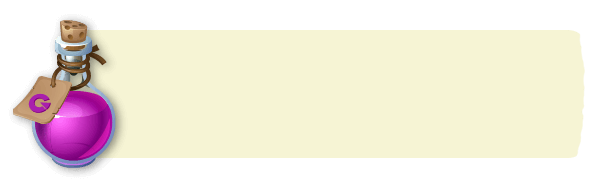
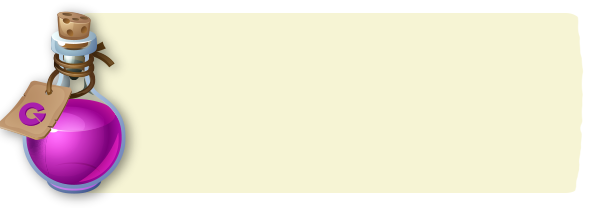
Copy added

diff --git a/index.html b/index.html
@@ -76,7 +76,7 @@
                 <img class="pinata-logo" src="assets/images/banner/spooky-logo.png" alt="">
             </div>     
             <div id="subtitle">
-                <h3><span class="orange">Log in daily for</span><br><span>spooky surprises</span><h3>
+                <h3><span class="orange">ZOMBIE ALERT: HIGH</span><br><span>REWARD ALERT: HIGHER</span><h3>
             </div>
             <!-- <div id="description">
                 <p class="desktop-18">Welcome to Guts Piñata Party, where the fun never stops!<br> Rules are simple: Beat, claim, repeat! </p>
@@ -124,66 +124,71 @@
             <div class="steps-container">
                 <div id="october-26-box" class="step-single-container-01 steps-odd">
                     <h3 class="date-title">OCTOBER 26</h3>
-                    <h3>Weekly Surprises</h3>
+                    <h3>Spooky Leaderboard</h3>
                     <ul>
-                        <li>Opt in and wager €100 from Monday to Thursday</li>
-                        <li>Surprises are paid out on Sunday</li>
+                        <li>Play Play'n GO slots to climb the leaderboard</li>
+                        <li>Finish in top 25 to win cash or Free Spins</li>
+                        <li>Reach the top to win €1,000 in real cash</li>
                     </ul>       
                 </div>
                 <div id="october-27-box" class="step-single-container-02 steps-even">
-                    <h3 class="date-title">OCTOBER 27</h3>
-                    <h3>Monthly Bonuses</h3>
+                    <h3 class="date-title">OCTOBER 27 - NOVEMBER 5</h3>
+                    <h3>Daring Double speed</h3>
                     <ul>
-                        <li>Collect at least 3 Weekly Piñata Rewards</li>
-                        <li>Start the next month with a Reload Bonus</li>
+                        <li>Play selected Halloween slots</li>
+                        <li>Level up in half the time</li>
                     </ul>       
                 </div>
                 <div id="october-28-box" class="step-single-container-03 steps-odd">
                     <h3 class="date-title">OCTOBER 28</h3>
-                    <h3>Weekly Surprises</h3>
+                    <h3>Scary Spinsanity</h3>
                     <ul>
-                        <li><a class="box-link" href="https://www.guts.com/en" target="_blank">Opt in</a> and wager €100 from Monday to Thursday</li>
-                        <li>Surprises are paid out on Sunday</li>
+                        <li>Make a deposit of €XX or more</li>
+                        <li>Get XX Free Spins (worth €XX each)</li>
+                        <li>No wagering requirements</li>
                     </ul>       
                 </div>
                 <div id="october-29-box" class="step-single-container-04 steps-even">
                     <h3 class="date-title">OCTOBER 29</h3>
-                    <h3>Monthly Bonuses</h3>
+                    <h3>Scary Spinsanity</h3>
                     <ul>
-                        <li>Collect at least 3 Weekly Piñata Rewards</li>
-                        <li>Start the next month with a Reload Bonus</li>
+                        <li>Make a deposit of €XX or more</li>
+                        <li>Get XX Free Spins (worth €XX each)</li>
+                        <li>No wagering requirements</li>
                     </ul>       
                 </div>
                 <div id="october-30-box" class="step-single-container-05 steps-odd">
                     <h3 class="date-title">OCTOBER 30</h3>
-                    <h3>Weekly Surprises</h3>
+                    <h3>Daring Double speed</h3>
                     <ul>
-                        <li>Opt in and wager €100 from Monday to Thursday</li>
-                        <li>Surprises are paid out on Sunday</li>
+                        <li>Play selected Halloween slots</li>
+                        <li>Level up in half the time</li>
                     </ul>       
                 </div>
                 <div id="october-31-box" class="step-single-container-06 steps-even">
                     <h3 class="date-title">OCTOBER 31</h3>
-                    <h3>Monthly Bonuses</h3>
+                    <h3>Ghostly Game of Guts</h3>
                     <ul>
-                        <li>Collect at least 3 Weekly Piñata Rewards</li>
-                        <li>Start the next month with a Reload Bonus</li>
+                        <li>Free Spin on the Game of Guts</li>
+                        <li>Go to your Rewards section to claim it</li>
                     </ul>       
                 </div>
                 <div id="november-01-box" class="step-single-container-07 steps-odd">
                     <h3 class="date-title">NOVEMBER 01</h3>
-                    <h3>Weekly Surprises</h3>
+                    <h3>Witchy Wager</h3>
                     <ul>
-                        <li>Opt in and wager €100 from Monday to Thursday</li>
-                        <li>Surprises are paid out on Sunday</li>
+                        <li>Play through €XX on any slots</li>
+                        <li>Get XX Free Spins (worth €XX each)</li>
+                        <li>No wagering requirements</li>
                     </ul>       
                 </div>
                 <div id="november-02-box" class="step-single-container-08 steps-even">
                     <h3 class="date-title">NOVEMBER 02</h3>
-                    <h3>Monthly Bonuses</h3>
+                    <h3>Ghostly Free Spins</h3>
                     <ul>
-                        <li>Collect at least 3 Weekly Piñata Rewards</li>
-                        <li>Start the next month with a Reload Bonus</li>
+                        <li>Log in to get XX Free Spins (worth €XX each)</li>
+                        <li>Get XX Free Spins (worth €XX each)</li>
+                        <li>No wagering requirements</li>
                     </ul>       
                 </div>
             </div>

diff --git a/assets/css/style.css b/assets/css/style.css
@@ -727,44 +727,44 @@ color: #000000;
   .steps-odd{
     margin: 0 auto;
     width: 900px;
-    height: 290px;
+    height: 312px;
   }
   .steps-odd h3.date-title{
     font-size: 30px;
     line-height: 34px;
-    padding-left: 220px;
-    padding-top: 70px;
+    padding-left: 240px;
+    padding-top: 60px;
   }
   .steps-odd h3{
     font-size: 30px;
     line-height: 34px;
-    padding-left: 220px;
+    padding-left: 240px;
   }
   .steps-odd ul{
     font-size: 24px;
     line-height: 32px;
-    padding: 20px 0px 0 220px;
+    padding: 20px 0px 0 240px;
   }
   .steps-even{
     margin: 0 auto;
     width: 900px;
-    height: 290px;
+    height: 312px;
   }
   .steps-even h3.date-title{
     font-size: 30px;
     line-height: 34px;
-    padding-left: 220px;
-    padding-top: 70px;
+    padding-left: 200px;
+    padding-top: 60px;
   }
   .steps-even h3{
     font-size: 30px;
     line-height: 34px;
-    padding-left: 220px;
+    padding-left: 200px;
   }
   .steps-even ul{
     font-size: 24px;
     line-height: 32px;
-    padding: 20px 0px 0 220px;
+    padding: 20px 0px 0 200px;
   }
 
   .dont-miss-the-fun-container{
@@ -857,44 +857,44 @@ color: #000000;
 .steps-odd{
   margin: 0 auto;
   width: 900px;
-  height: 290px;
+  height: 312px;
 }
 .steps-odd h3.date-title{
   font-size: 30px;
   line-height: 34px;
-  padding-left: 220px;
-  padding-top: 70px;
+  padding-left: 240px;
+  padding-top: 60px;
 }
 .steps-odd h3{
   font-size: 30px;
   line-height: 34px;
-  padding-left: 220px;
+  padding-left: 240px;
 }
 .steps-odd ul{
   font-size: 24px;
   line-height: 32px;
-  padding: 20px 0px 0 220px;
+  padding: 20px 0px 0 240px;
 }
 .steps-even{
   margin: 0 auto;
   width: 900px;
-  height: 290px;
+  height: 312px;
 }
 .steps-even h3.date-title{
   font-size: 30px;
   line-height: 34px;
-  padding-left: 220px;
-  padding-top: 70px;
+  padding-left: 200px;
+  padding-top: 60px;
 }
 .steps-even h3{
   font-size: 30px;
   line-height: 34px;
-  padding-left: 220px;
+  padding-left: 200px;
 }
 .steps-even ul{
   font-size: 24px;
   line-height: 32px;
-  padding: 20px 0px 0 220px;
+  padding: 20px 0px 0 200px;
 }
 
 .dont-miss-the-fun-container{
@@ -975,7 +975,7 @@ color: #000000;
 .steps-odd{
   margin: 0 auto;
   width: 806px;
-  height: 250px;
+  height: 280px;
 }
 .steps-odd h3.date-title{
   font-size: 26px;
@@ -997,7 +997,7 @@ color: #000000;
 .steps-even{
   margin: 0 auto;
   width: 806px;
-  height: 250px;
+  height: 280px;
 }
 .steps-even h3.date-title{
   font-size: 26px;
@@ -1255,19 +1255,19 @@ color: #000000;
   font-size: 18px;
   line-height: 22px;
   padding-top: 65px;
-  padding-left: 100px;
+  padding-left: 90px;
 }
 .steps-even h3{
   font-size: 18px;
   line-height: 22px;
-  padding-left: 100px;
+  padding-left: 90px;
 }
 .steps-even ul{
   font-size: 16px;
   line-height: 20px;
-  padding-left: 100px;
+  padding-left: 90px;
   padding-top: 15px;
-  padding-right: 150px;
+  padding-right: 130px;
 }
 
 .dont-miss-the-fun-container{
@@ -1608,7 +1608,7 @@ color: #000000;
   height: 170px;
 }
 .step-single-container-08{
-  background:x url(../images/steps/step-08-bg-600px-breakpoint-potion.png);
+  background: url(../images/steps/step-08-bg-600px-breakpoint-potion.png);
   background-size: cover;
   background-position: center center;
   width: 450px;
@@ -1619,7 +1619,7 @@ color: #000000;
   line-height: 20px;
   font-weight: 600;
   text-transform: capitalize;
-  padding-left: 70px;
+  padding-left: 60px;
   padding-top: 35px;
   text-align: left;
 }
@@ -1628,15 +1628,15 @@ color: #000000;
   line-height: 20px;
   font-weight: 600;
   text-transform: capitalize;
-  padding-left: 70px;
+  padding-left: 60px;
   text-align: left;
 }
 .steps-even ul{
   list-style-type: disc;
   display: flex;
   flex-direction: column;
-  padding-left: 70px;
-  padding-right: 80px;
+  padding-left: 60px;
+  padding-right: 60px;
   padding-top: 10px;
   font-size: 16px;
   text-align: left;
@@ -1770,7 +1770,7 @@ color: #000000;
 }
 .step-single-container-01{
   width: 350px;
-  height: 200px;
+  height: 230px;
   background: url(../images/steps/step-01-bg-475px-potion.png);
   background-size: cover;
   background-position: center center;
@@ -1798,10 +1798,14 @@ color: #000000;
 }
 .steps-odd h3.date-title{
   padding-top: 35px;
+  padding-left: 90px;
 }
-
+.steps-odd h3{
+  padding-left: 90px;
+}
 .steps-odd ul{
   padding-right: 30px;
+  padding-left: 90px;
 }
 .step-single-container-02{
   width: 350px;
@@ -1832,15 +1836,15 @@ color: #000000;
   background-position: center center;
 }
 .steps-even h3.date-title{
-  padding-left: 60px;
+  padding-left: 45px;
   padding-top: 35px;
 }
 .steps-even h3{
-  padding-left: 60px;
+  padding-left: 45px;
 }
 .steps-even ul{
-  padding-left: 60px;
-  padding-right: 70px;
+  padding-left: 45px;
+  padding-right: 35px;
 }
 
 }
